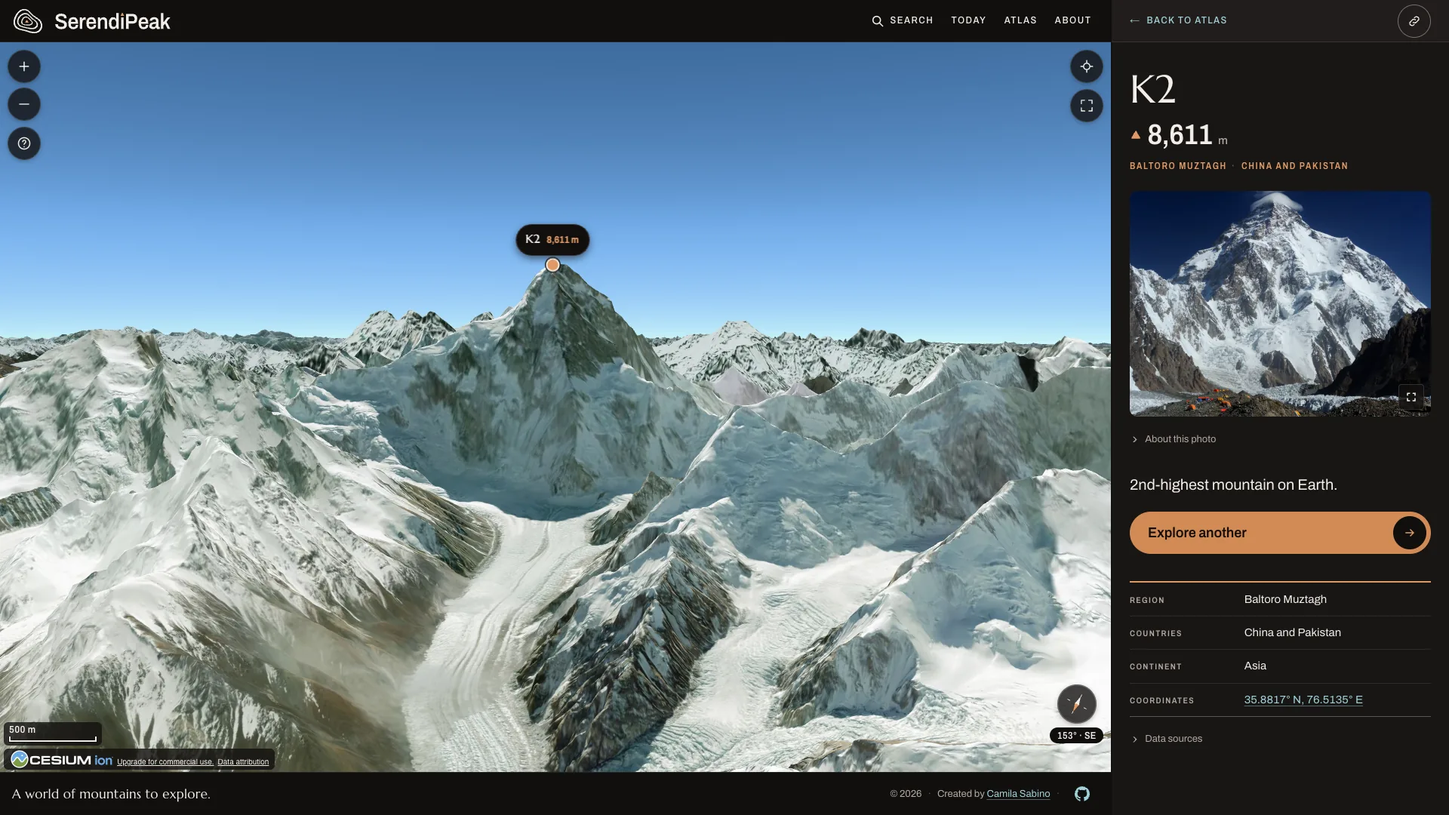
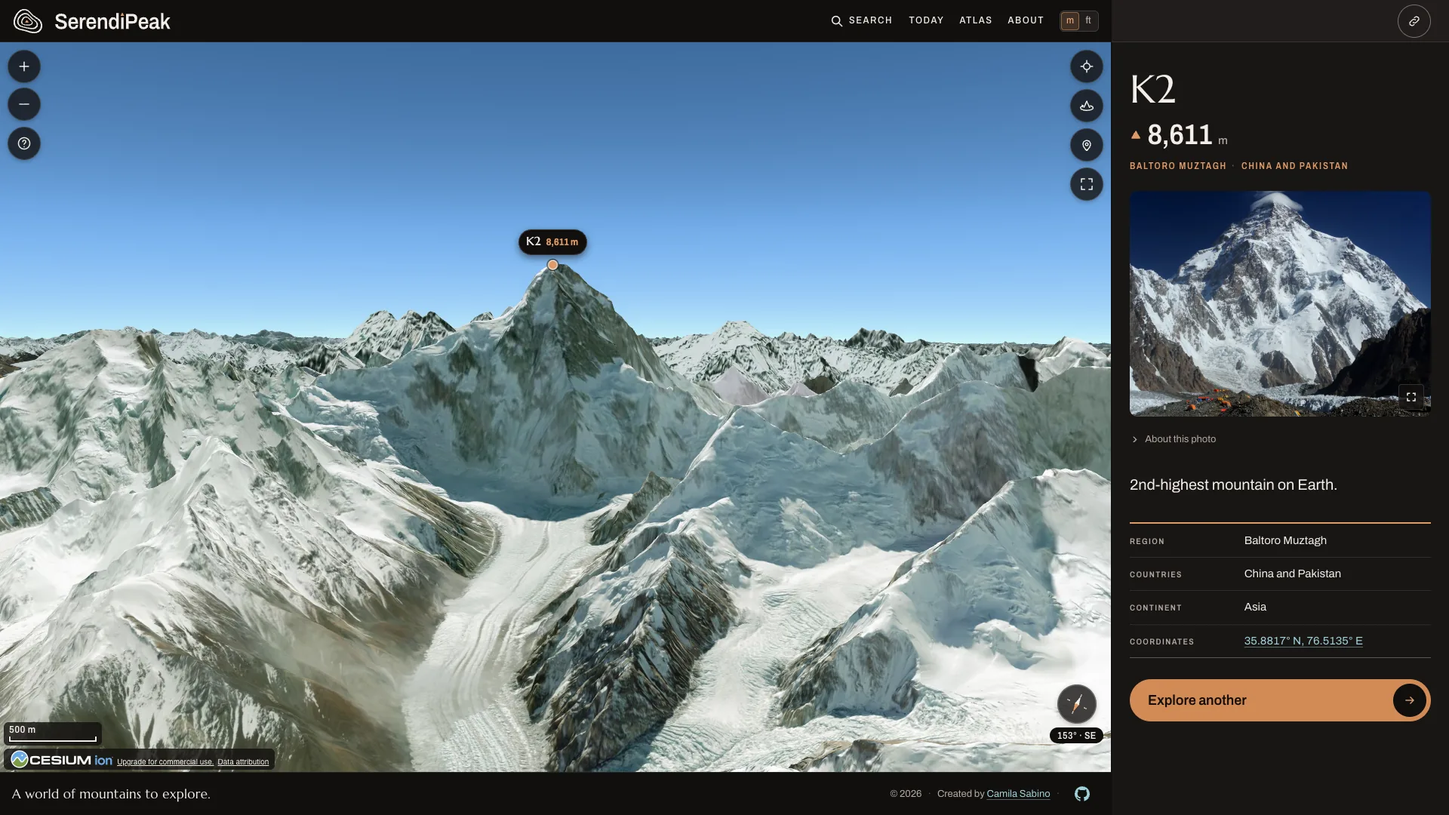
docs: refresh repository documentation and screenshots

diff --git a/docs/engineering/developer-reference.md b/docs/engineering/developer-reference.md
@@ -455,7 +455,7 @@ One GitHub Actions workflow covers the repository.
 
 ### WebGL smoke tests
 
-No workflow runs real WebGL, and it is neither a required check nor a deployment gate. A small Playwright suite in `apps/web/e2e/webgl/` covers what only a real Cesium Viewer can show: boot on the canonical camera with the stage controls, Viewer reuse across routes and teardown without a mountain, atlas marker click versus drag, zoom and Reset, the Camera Editor round trip, and the summit marker layout on phone and desktop. Everything else about the 3D scene is covered by Vitest, SSR and no-WebGL tests.
+No workflow runs real WebGL, and it is neither a required check nor a deployment gate. A Playwright suite in `apps/web/e2e/webgl/` covers what only a real Cesium Viewer can show: boot on the canonical camera with the stage controls, Viewer reuse across routes and teardown without a mountain, atlas marker click versus drag, atlas filters and geographic framing, marker visibility on the atlas and on a mountain, zoom and Reset, control tooltips and the navigation guide tabs (including touch, edges and reduced motion), metric and imperial units on the stage, the Camera Editor round trip, and the summit marker layout on phone and desktop. Everything else about the 3D scene is covered by Vitest, SSR and no-WebGL tests.
 
 Run it locally on demand, in particular after changing Cesium lifecycle, bundling, camera interaction, terrain, imagery or summit markers, and check substantial changes by hand on a real device. `npm run test:webgl` uses `next dev` and runs only the `@lifecycle` scenarios, which exist for React Strict Mode; `npm run test:webgl:prod` runs the whole suite against a production build. Failed tests leave a trace in `apps/web/test-results`.
 
@@ -510,11 +510,21 @@ Repository-root commands for the local stack: `npm run dev:start` starts PostGIS
 Cesium is imported only under `src/stage/globe/cesium/`, behind the framework-free `GlobeScene` interface; everything else in the app talks to that interface.
 
 - **One viewer.** The viewer is created lazily and reused across mountain pages, the daily page and the atlas, so client navigation never recreates a WebGL context. Cesium stops its render loop at the first render error; the scene reports that as a stage failure with a retry instead of leaving a frozen globe.
-- **Curated camera.** Every published mountain has a saved camera: heading, pitch, range and a two-value framing offset (`fx`, `fy`) that keeps the summit in view beside the information panel. The scene turns it into a Cesium pose with a pure function of the summit, the camera and the stage size, so a camera composed in the editor renders the same on the public page.
-- **Navigation.** Compass, scale bar, a control that pauses or resumes the globe's rotation, zoom, reset and fullscreen controls, plus a navigation help panel. Moving to another mountain follows a planned trajectory. The atlas overview always opens on the same fixed view (centered on Europe and Africa) and turns slowly.
-- **Units.** The summit pill, the atlas preview pill and the scale bar follow the visitor's metric or imperial preference. The preference store stays the single source of truth; the mounted stage hands its value to the scene through `GlobeScene.setUnitSystem`, which redraws only those labels in place, so a change never recreates the viewer, flies the camera or rebuilds the markers. Meters remain the canonical unit: the scale bar measures ground distance in meters and picks its round length in the system's own units (1, 2 or 5 times a power of ten of feet below a mile and of miles from it, never a converted metric step), then derives the bar width from that length.
-- **Reduced motion.** With `prefers-reduced-motion: reduce` the scene moves directly to the destination instead of flying when it travels to a mountain or reframes its camera. The preference is read from the browser through `matchMedia`.
+- **State ownership.** `SceneSession` owns what the scene is doing (the presented mountain, the atlas view and markers, whether a flight owns the camera, rotation and orbit intent) and publishes it to a `SceneStore`; the stage components only read snapshots from the store and send commands to the session. What the reader chose lives above the stage, in `StageLayout`, so it survives navigation between the atlas and mountain pages while the page content changes: the atlas view (filters and sort, in memory only, never in the URL), the open continents and whether markers are shown. The unit preference is the one exception, kept in its own store and in `localStorage`.
+- **Curated camera.** Every published mountain has a saved camera: heading, pitch, range and a two-value framing offset (`fx`, `fy`) that keeps the summit in view beside the information panel. The scene turns it into a Cesium pose with a pure function of the summit, the camera and the stage size, so a camera composed in the editor renders the same on the public page, and it adapts when the stage is resized or goes fullscreen.
+- **Camera transitions.** Moving between mountains, to the atlas overview or back to a mountain's pose is a planned glide (`transitionPlan`, `glidePath`). The plan classifies the trip (local, regional, continental or intercontinental) and whether it is a reveal or an exploration, climbs to a context altitude when the distance asks for it, and sets its duration from the perceived length of the motion (zoom, ground covered, turn and tilt) rather than from distance alone, slowing into the arrival. Under reduced motion the plan is a direct move.
+- **Availability and interruption.** Zoom and Reset work only while the camera is settled on a mountain or free in the atlas; during a reveal or a flight between mountains they are disabled (`stageControlsFor`), and the controls appear only once the scene is ready. A flight to the atlas overview is cancelled by the reader's first press or wheel on the globe, which takes the camera; Reset and the flight between mountains hold direct input until they land. A gesture, zoom step or Reset also ends an orbit or rotation in progress, and the camera is never snapped back to a pose the reader left.
+- **Controls.** Compass, scale bar, zoom, Reset, fullscreen and **How to navigate** everywhere. The atlas adds a pause or resume control for the globe's rotation; the daily page and mountain pages add the **360° orbit**. A markers switch is offered on all three. Unavailable buttons say so in their tooltip ("Available once the view settles").
+- **Mountain orbit.** One revolution around the settled mountain in 60 seconds, started, paused and resumed from the toolbar. It turns around the summit from wherever the camera is, keeps a terrain clearance by climbing ahead of ridges (look-ahead along its path, eased lift, an emergency correction scaled by the frame's elapsed time) and halts safely, returning the label to Start, when it cannot. It stops when the reader moves the map, zooms, resets, changes mountain or starts a flight, and the button is disabled while any flight owns the camera. It is not offered on the atlas or in the Camera Editor, nor under reduced motion. Known limit: under very heavy CPU throttling (about 6x on K2) the orbit may halt at a ridge.
+- **Marker visibility.** One reader preference, held by `StageLayout`, hides or shows every marker the globe draws: the atlas markers (also not heard or hit, so the chooser cannot open) and the summit marker of a mountain. The list, the information panel, search and navigation are unaffected, and the guide changes its wording and drops the "Open" gesture while atlas markers are hidden. It resets on a full reload.
+- **Tooltips and guide.** Each control has a tooltip that names what pressing it does now. It is a visual aid only (hidden from assistive technology; the button keeps its own accessible name): it opens immediately on mouse or pen entry or on keyboard focus, never on touch, closes with Escape, is kept inside the stage and is suppressed while the guide is open. **How to navigate** is a disclosure with three tabs (Mouse, Touch, Controls) whose rows describe only the gestures and buttons the stage actually offers in its current context (atlas or mountain, markers shown or hidden, orbit or rotation available, fullscreen supported); the copy is in `stage/stageCopy.ts`.
+- **Units.** The summit pill, the atlas preview pill and the scale bar follow the visitor's metric or imperial preference, chosen with the header's segmented control and remembered in `localStorage` (`serendipeak:unit-system`). The preference store stays the single source of truth; the mounted stage hands its value to the scene through `GlobeScene.setUnitSystem`, which redraws only those labels in place, so a change never recreates the viewer, flies the camera or rebuilds the markers. Meters remain the canonical unit: the scale bar measures ground distance in meters and picks its round length in the system's own units (1, 2 or 5 times a power of ten of feet below a mile and of miles from it, never a converted metric step), then derives the bar width from that length.
+- **Reduced motion.** With `prefers-reduced-motion: reduce` the scene moves directly to the destination instead of flying, the atlas globe does not rotate and the mountain orbit is not offered (so their controls are absent). The preference is read from the browser through `matchMedia`.
 - **Failure states.** A missing ion token, a scene that cannot start or a failed imagery layer is reported in the stage's status region; the editorial content around the stage keeps working. `npm run test:nogl` covers these states without WebGL.
+
+#### Site header
+
+The header shows Search, the Today, Atlas and About links and the unit selector. When the row does not fit, the links and the unit selector move behind a **Menu** disclosure button (`HeaderMenu`: ordinary links and buttons, closed by Escape, an outside press or focus leaving it, and by widening the header). The wordmark is hidden on very narrow headers.
 
 ### Mountain search
 
@@ -524,7 +534,11 @@ Filtering runs in the browser on every keystroke, with no request: names are com
 
 ### Atlas
 
-`/atlas` shows every active mountain as a marker on the globe, with a list below grouped by continent. Markers are labelled by distance and decluttered; where several markers overlap under a click or tap, a chooser lists them. Every continent starts collapsed, and the ones the visitor opens persist across mountain pages and back (a set held by the stage layout). A marker under the mouse, or the marker of a list row under the mouse or keyboard focus, is drawn emphasized and named by the same pill the mountain page uses; the list reaches the scene only through the stage layout's `highlightMarker`, which is transient (nothing is replayed to a scene that does not exist yet), never moves the camera, and shows nothing for a marker on the far side of the globe. A touch has no hover, so a tap still opens the mountain or the chooser at once. The mountain page's **Back to atlas** link steps back in history when the visitor arrived from the atlas, so Back does not replay the trip. It is server-rendered from the index (`getServerSideProps` → `loadAtlasPage`), indexable, and canonicalizes to `${SITE_ORIGIN}/atlas`. An index the API cannot serve answers 503 (unreachable) or 502 with a retry, like a mountain page.
+`/atlas` shows every active mountain as a marker on the globe, with a panel beside it (below it on narrow screens) holding the introduction, the **Filter** and **Sort** controls and the list.
+
+- **Filter and sort.** Filters are country (an ISO code, matched against every country of a mountain), elevation (any number of 1,000-unit bands, in the displayed unit system) and mountain range (a region slug, matched against a mountain's region and each of its ancestors). Several bands combine with OR and every other active filter with AND; each option shows how many mountains it would leave. Sort is name A–Z (the default), highest first or lowest first. With the default view the list is grouped by continent; with any filter or another sort it is one sorted list of the matches. The panel states how many mountains match, switching units clears the elevation bands (and says so) because they are native to one unit system, and **Reset** returns to the default view. The view lives in `AtlasViewStore`, held by the stage layout in memory only, so opening a mountain and returning finds the list and globe as they were; it is never in the URL.
+- **Globe follows the list.** Every filter narrows the markers on the globe to the matches. Country and range are geographic: they also bring the camera to the matches (`toAtlasView`, `atlasOverviewLook`), turning and zooming to frame them, or keeping the whole globe turned toward them when they are too dispersed to frame closely. Elevation and sort never move the camera.
+- **Markers.** The markers switch hides every atlas marker without touching the list (see [3D scene](#3d-scene)). Markers are labelled by distance and decluttered; where several markers overlap under a click or tap, a chooser lists them. Every continent starts collapsed, and the ones the visitor opens persist across mountain pages and back (a set held by the stage layout). A marker under the mouse, or the marker of a list row under the mouse or keyboard focus, is drawn emphasized and named by the same pill the mountain page uses; the list reaches the scene only through the stage layout's `highlightMarker`, which is transient (nothing is replayed to a scene that does not exist yet), never moves the camera, and shows nothing for a marker on the far side of the globe. A touch has no hover, so a tap still opens the mountain or the chooser at once. The mountain page's **Back to atlas** link steps back in history when the visitor arrived from the atlas, so Back does not replay the trip. It is server-rendered from the index (`getServerSideProps` → `loadAtlasPage`), indexable, and canonicalizes to `${SITE_ORIGIN}/atlas`. An index the API cannot serve answers 503 (unreachable) or 502 with a retry, like a mountain page.
 
 #### Sharing and social metadata
 
@@ -532,5 +546,5 @@ A loaded public mountain page publishes, in its server-rendered `<head>`, a desc
 
 - **Canonical:** `${SITE_ORIGIN}/mountains/{slug}` with the API's current slug, so an old slug (which answers 308) and any query string never reach it. The daily page `/` canonicalizes to `${SITE_ORIGIN}/` and carries site-level tags only, because social platforms cache a preview much longer than a mountain stays featured. Draft previews and failed loads publish no canonical, description or social tags; previews keep `noindex` and `no-store`.
 - **Text:** the title is `Name (elevation)`; the description is the curated summary (whitespace collapsed, cut at a word boundary under 200 characters) or, without one, `Name rises 6,961 m in <region, countries or continent>.` built only from catalog fields.
-- **Image:** a mountain's page rendition is used only when its license asks for no attribution (CC0 or public domain, recognized from the license name or the Creative Commons URL), because a link preview shows no credit. Every other photograph, and every mountain without a recognized license, falls back to one static illustrated card, `/brand/serendipeak-mountain-social-v1.png` (1200x630, original artwork with no imagery, so it carries no third-party credit), with `og:image:width` and `height` set and a `summary_large_image` Twitter card. The homepage keeps the square brand mark `/brand/serendipeak-mark.png` with a `summary` card. The card's filename is versioned: a changed card gets a new `-vN` name, because social platforms cache a preview image by URL. `docs/brand/social-preview.png` is not served: it embeds Sentinel-2 imagery under CC BY-NC-SA and Cesium terrain whose terms require the attribution to stay with it.
+- **Image:** a mountain's page rendition is used only when its license asks for no attribution (CC0 or public domain, recognized from the license name or the Creative Commons URL), because a link preview shows no credit. Every other photograph, and every mountain without a recognized license, falls back to one static illustrated card, `/brand/serendipeak-mountain-social-v1.png` (1200x630, original artwork with no imagery, so it carries no third-party credit), with `og:image:width` and `height` set and a `summary_large_image` Twitter card. The homepage keeps the square brand mark `/brand/serendipeak-mark.png` with a `summary` card. The card's filename is versioned: a changed card gets a new `-vN` name, because social platforms cache a preview image by URL. `docs/brand/social-preview.png` is not served: it is the repository's own social preview (uploaded to GitHub by hand) and embeds a Cesium capture of Cesium World Imagery and Cesium World Terrain whose terms require the attribution to stay with it.
 - **Share control:** the mountain panel offers one button on public mountain pages and the daily page, never on previews. It shares the mountain's permanent URL, never `/` or a preview address: with `navigator.share` where available, otherwise by copying it. Dismissing the native sheet is silent; a native failure falls back to the clipboard; a denied clipboard shows the URL to copy by hand. Without a configured origin it uses the visitor's own origin with the permanent path.

diff --git a/docs/media/README.md b/docs/media/README.md
@@ -7,7 +7,7 @@ docs/media/
 ├── atlas.webp                 # Atlas, desktop 1920x1080
 ├── mountain-view.webp         # K2 mountain page, desktop 1920x1080
 ├── mountain-view-mobile.webp  # Fitz Roy mountain page, mobile 390x844
-└── camera-editor.webp         # Camera Editor on the saved camera of Kilimanjaro, desktop 1440x900 (technical reference, not used in the README; an earlier capture with Sentinel-2 imagery, see Credits)
+└── camera-editor.webp         # Camera Editor on the saved camera of Kilimanjaro, desktop 1440x900 (technical reference, not used in the README)
 ```
 
 The README images show different mountains on purpose. See [Credits and rights](#credits-and-rights).
@@ -23,11 +23,24 @@ The README images show different mountains on purpose. See [Credits and rights](
 - Wait for the real scene before capturing: no status message left in the stage, no `role="alert"`, the photograph decoded, the fonts loaded, and a few seconds for terrain and imagery tiles to settle. A loading or failure state is never acceptable.
 - Use public pages only. The Camera Editor reads everything from its query and writes nothing; use only data the public API already serves for a published mountain, and never click **Save camera…**.
 - Never crop, cover or retouch the Cesium ion logo or the **Data attribution** link in the scene; they must stay visible in every capture and in anything derived from it.
-- Keep each file under about 300 KB. Terrain imagery compresses poorly, so the set is roughly 0.35 MB at these sizes.
+- Keep each file under about 300 KB. Terrain imagery compresses poorly, so the set is roughly 0.5 MB at these sizes (about 0.37 MB for the three README images).
+- The Atlas globe turns slowly (about 1.2° per second), so its framing depends on when the frame is taken. Capture it about 12 seconds after the stage is ready, which frames Europe and Africa as the earlier captures did; never pause or drag the globe to compose it.
+- A mountain page opened directly has no **Back to atlas** link, which only appears for a visitor who arrived from the Atlas. Do not navigate through the Atlas just to show it.
+- For the phone capture use a touch-enabled mobile emulation at 390x844 with a device scale factor of 1.
 
 ## Regenerating a screenshot
 
-1. Open the page at the target viewport, for example `http://localhost:3100/mountains/k2` against a local API with a published catalog. The Atlas is `/atlas`.
+1. Build and serve the production build on a spare port, away from a running development server, against a local API with a published catalog (the page is rendered on the server, so the API's CORS origin does not matter for these routes):
+
+   ```bash
+   cd apps/web
+   NEXT_DIST_DIR=.next-e2e/readme-media NEXT_PUBLIC_API_BASE_URL=http://localhost:8000 \
+     NEXT_PUBLIC_CESIUM_IMAGERY_MODE=world npm run build
+   NEXT_DIST_DIR=.next-e2e/readme-media NEXT_PUBLIC_API_BASE_URL=http://localhost:8000 \
+     npx next start -p 3100
+   ```
+
+   `.next-e2e/` is ignored by Git. `NEXT_PUBLIC_CESIUM_ION_TOKEN` comes from `apps/web/.env.local`. Then open the page at the target viewport, for example `http://localhost:3100/mountains/k2`. The Atlas is `/atlas`.
 2. Only for a Camera Editor reference (never for the public pages), use `/editorial/camera?mountain=<id>&slug=<slug>&name=<name>&lat=<lat>&lon=<lon>&elevation=<m>&heading=<deg>&pitch=<deg>&range=<m>&fx=<x>&fy=<y>`, with the values from the mountain's public API response.
 3. Take a PNG screenshot of the viewport (Playwright's `page.screenshot` works well). The Atlas globe turns slowly, so each capture frames it slightly differently.
 4. Convert it with `cwebp` (`brew install webp`):
@@ -47,6 +60,11 @@ To recreate the social preview, lay out a 1280x640 HTML page with those elements
 
 GitHub does not read the card from the repository: upload it under Settings → General → Social preview.
 
+### Two different social images
+
+- **`docs/brand/social-preview.png`** is the *GitHub repository* social preview. It is not referenced by any page and is never served by the web app; it only exists to be uploaded by hand. Its right half is a real Half Dome capture in World Imagery, with the imagery and terrain credits printed as text.
+- **`apps/web/public/brand/serendipeak-mountain-social-v1.png`** is the *mountain page* Open Graph card, below.
+
 The Open Graph card for mountain pages is a separate, static asset: `apps/web/public/brand/serendipeak-mountain-social-v1.png` (1200x630), original artwork of contour lines on `--sp-basalt` with no photograph, satellite imagery or Cesium capture, so it needs no credits. It is served as-is and never regenerated; to change it, add a new `-vN` file and point `MOUNTAIN_CARD_PATH` at it.
 
 ## Credits and rights
@@ -57,10 +75,12 @@ The repository license ("All rights reserved") does not cover the third-party ma
   - `mountain-view.webp` (K2): "Chogori.jpg" by Zacharie Grossen, licensed [CC BY-SA 4.0](https://creativecommons.org/licenses/by-sa/4.0), from [Wikimedia Commons](https://commons.wikimedia.org/wiki/File:Chogori.jpg).
   - `mountain-view-mobile.webp` (Fitz Roy): "Vue du Fitz Roy.jpg" by Sebgigon, licensed [CC BY-SA 4.0](https://creativecommons.org/licenses/by-sa/4.0), from [Wikimedia Commons](https://commons.wikimedia.org/wiki/File:Vue_du_Fitz_Roy.jpg).
   - `atlas.webp`, `camera-editor.webp` and the social preview show no photograph.
-- **3D terrain** (all images): Cesium World Terrain, streamed through Cesium ion. Cesium's terms allow images of its services in promotional material provided its attribution stays intact, and its [content usage and attribution guide](https://cesium.com/learn/ion/content-usage-and-attribution-guide/) requires the Cesium ion logo to be prominent and the data attribution details to be visible in static images (the "Data attribution" link alone is not enough). The social preview therefore shows the logo and the credits as text. The terrain credits, as the scene's own **Data attribution** panel lists them: data available from the U.S. Geological Survey, © CGIAR-CSI, produced using Copernicus data and information funded by the European Union - EU-DEM layers, data available from Land Information New Zealand, data available from data.gov.uk, data courtesy Geoscience Australia.
-- **Satellite imagery** (`atlas.webp`, `mountain-view.webp`, `mountain-view-mobile.webp` and the social preview): Cesium World Imagery from Cesium ion, the imagery the deployed site uses (`world` mode). Credits as the scene's **Data attribution** panel lists them, and as the social preview reproduces them: © 2026 Microsoft Corporation, © Mapbox, © Maxar, ©CNES (2026) Distribution Airbus DS, Earthstar Geographics SIO. These images show the product as a portfolio project; Cesium World Imagery stays subject to its providers' terms, which the repository license does not cover. The attribution strip in each capture is the scene's own.
-- **Camera Editor reference** (`camera-editor.webp`): an earlier capture whose imagery is Sentinel-2 from Cesium ion (asset 3954, the EOxCloudless 2021 layer), so it does not look like the deployed site. Its credit: "EOxCloudless https://cloudless.eox.at by EOX IT Services GmbH (Contains modified Copernicus Sentinel data 2021)", licensed by EOX under [CC BY-NC-SA 4.0](https://cloudless.eox.at/license-non-commercial) (non-commercial, share-alike). It is not used in the README.
+- **3D terrain** (all images): Cesium World Terrain, streamed through Cesium ion. Cesium's terms allow images of its services in promotional material provided its attribution stays intact, and its [content usage and attribution guide](https://cesium.com/learn/ion/content-usage-and-attribution-guide/) requires the Cesium ion logo to be prominent and the data attribution details to be visible in static images (the "Data attribution" link alone is not enough). The social preview therefore shows the logo and the credits as text, and the root README prints the terrain, imagery and photograph credits as visible text directly under its screenshots, which is the guide's "caption" approach. The README images are deliberately not links to the standalone files, so none is offered without that caption; the files are still reachable by their repository path, and they keep the scene's own logo and **Data attribution** link unaltered. Anyone reusing an image elsewhere must carry the credits with it.
+
+Review of the terms (guide, [Appendix B](https://cesium.com/legal/third-party-terms/) and [Appendix B-1, Bing Maps Content](https://cesium.com/legal/terms-for-bing/), read 2026-11-24): the guide requires visible attribution details in static content made with Cesium ion Asset Depot assets, says screenshots nowhere by name, and warns that some providers limit renderings that include their data. Appendix B forbids removing, obscuring or blocking attribution. The Bing terms allow content only "to access and display maps and related information", forbid copying or archiving the content and obscuring Microsoft's notices, and say nothing about screenshots, static images or published material. Not read: the Bing Maps end-user terms and Microsoft's brand guidelines that Appendix B-1 links. The guide also says Cesium ion's Bing access runs "at least through September 2026", a date that has passed; nothing here checks what the service serves now. **Unresolved:** no document reviewed expressly permits republishing screenshots of World Imagery, so the right to reproduce the imagery in these images is not confirmed. The credits and the unmodified attribution are kept as the conservative course, and the images are kept because they show the product as a portfolio project, not because clearance was established. The terrain credits, as the scene's own **Data attribution** panel lists them: data available from the U.S. Geological Survey, © CGIAR-CSI, produced using Copernicus data and information funded by the European Union - EU-DEM layers, data available from Land Information New Zealand, data available from data.gov.uk, data courtesy Geoscience Australia.
+- **Satellite imagery** (every image here, the Camera Editor reference and the social preview included): Cesium World Imagery from Cesium ion, the imagery the deployed site uses (`world` mode). Credits as the scene's **Data attribution** panel lists them, and as the social preview reproduces them: © 2026 Microsoft Corporation, © Mapbox, © Maxar, ©CNES (2026) Distribution Airbus DS, Earthstar Geographics SIO. These images show the product as a portfolio project; Cesium World Imagery stays subject to its providers' terms, which the repository license does not cover. The attribution strip in each capture is the scene's own.
+- **Camera Editor reference** (`camera-editor.webp`): the same Cesium World Terrain and World Imagery as the other captures, so it carries the same credits. It shows no photograph and no scene beyond the Kilimanjaro scene and the editor's own panel. (An earlier version used Sentinel-2 imagery from Cesium ion, EOxCloudless under CC BY-NC-SA; no current image does.)
 - **Starfield**: the Atlas capture shows CesiumJS's built-in sky box, whose star images come from NASA (see the [CesiumJS license notices](https://github.com/CesiumGS/cesium/blob/main/LICENSE.md), "Sky box images from NASA", and [NASA's media guidelines](https://www.nasa.gov/nasa-brand-center/images-and-media/)).
 - **Brand artwork and typefaces**: the SerendiPeak symbol and wordmark, and Marcellus and Archivo, which are open-licensed (SIL Open Font License) fonts self-hosted by the product.
 
-The README images and the social preview were captured from a local production build with `NEXT_PUBLIC_CESIUM_IMAGERY_MODE=world`, and match the deployed site for the same viewport. Each shows the Cesium ion logo and the scene's "Data attribution" link, and the credits above apply to it.
+The four screenshots were recaptured on 2026-11-24 from a local production build of the current code with `NEXT_PUBLIC_CESIUM_IMAGERY_MODE=world`, against a local catalog whose slugs and saved cameras matched the production API's, and the social preview was captured earlier the same way. They match the deployed site for the same viewport. Each shows the Cesium ion logo and the scene's "Data attribution" link, and the credits above apply to it.

diff --git a/README.md b/README.md
@@ -6,7 +6,7 @@ SerendiPeak is a mountain discovery and exploration experience. Explore the worl
 
 [**Explore SerendiPeak →**](https://serendipeak.camilasabino.dev) &nbsp;·&nbsp; [![CI](https://github.com/camilasabino/serendipeak/actions/workflows/ci.yml/badge.svg)](https://github.com/camilasabino/serendipeak/actions/workflows/ci.yml)
 
-[![The SerendiPeak Atlas: a 3D globe with a red marker for every published mountain, beside a list grouped by continent](docs/media/atlas.webp)](docs/media/atlas.webp)
+![The SerendiPeak Atlas: a 3D globe with a marker for every published mountain, beside filter and sort controls and a list grouped by continent](docs/media/atlas.webp)
 
 ## What it does
 
@@ -14,22 +14,23 @@ Every day the site features one mountain from a curated catalog, inviting visito
 
 - **Discover today's mountain.** A daily selection, chosen per UTC date, shared by every visitor and kept across restarts.
 - **Explore another.** Travel to a different mountain without leaving the 3D experience.
-- **Browse the atlas.** Every published mountain as a marker on an interactive globe at [/atlas](https://serendipeak.camilasabino.dev/atlas), with a list grouped by continent. Nearby markers are decluttered, and a chooser opens where several overlap.
+- **Browse the atlas.** Every published mountain as a marker on an interactive globe at [/atlas](https://serendipeak.camilasabino.dev/atlas), with a list grouped by continent. Filter by country, elevation band or mountain range and sort by name or elevation: the list narrows to one sorted set of matches and the globe keeps only their markers; a country or range also turns the globe to frame them. Nearby markers are decluttered, and a chooser opens where several overlap.
 - **Search by name.** Find a mountain from any page, ignoring case and accents. Search is keyboard operable and announces its results.
-- **Explore the terrain.** Navigate a Cesium-powered 3D scene framed by a curated, mountain-specific camera, with compass, scale bar, zoom, reset, fullscreen and a navigation help panel. Visitors who prefer reduced motion get direct moves instead of animated flights.
-- **Understand the geography.** See elevation, coordinates, continent, countries, and the mountain's region hierarchy, with links to supporting geographic data.
+- **Explore the terrain.** Navigate a Cesium-powered 3D scene framed by a curated, mountain-specific camera, with compass, scale bar, zoom, reset and fullscreen controls. A 360° orbit circles the summit, and one switch hides or shows the mountain markers on the atlas, today's mountain and every mountain page. Every control explains itself in a tooltip, and a tabbed **How to navigate** guide covers mouse, touch and the controls. Visitors who prefer reduced motion get direct moves instead of animated flights, and no orbit or globe rotation.
+- **Choose your units.** Switch between metric and imperial from the header; elevations, markers, the scale bar and the atlas elevation bands follow, and the choice is remembered in the browser.
+- **Understand the geography.** See elevation, coordinates, continent, countries, and the mountain's region hierarchy, with a short summary and, where one is written, a longer description that expands in place.
 - **See the mountain beyond the map.** View a real photograph with its author, license, and source.
 - **Share a place.** Each mountain has a permanent URL such as [Aconcagua](https://serendipeak.camilasabino.dev/mountains/aconcagua). If a mountain's slug changes, its former address redirects permanently to the new one. Pages carry canonical URLs and social preview metadata, and a share control uses the native share sheet or copies the link.
 
-[![SerendiPeak page for K2: a 3D terrain scene of the mountain beside its elevation, region, photograph and details](docs/media/mountain-view.webp)](docs/media/mountain-view.webp)
+![SerendiPeak page for K2: a 3D terrain scene of the mountain beside its elevation, region, photograph and details](docs/media/mountain-view.webp)
 
 The public experience is open without an account and adapts to small screens:
 
 <p align="center">
-  <a href="docs/media/mountain-view-mobile.webp">
-    <img src="docs/media/mountain-view-mobile.webp" alt="SerendiPeak on a 390 px wide viewport: the mountain name and elevation above the 3D scene of Fitz Roy, with the details below" width="260" />
-  </a>
+  <img src="docs/media/mountain-view-mobile.webp" alt="SerendiPeak on a 390 px wide viewport: the mountain name and elevation above the 3D scene of Fitz Roy and its controls, with the summary below" width="260" />
 </p>
+
+<sub>Screenshot credits. Terrain: Cesium World Terrain (data available from the U.S. Geological Survey, © CGIAR-CSI, produced using Copernicus data and information funded by the European Union - EU-DEM layers, data available from Land Information New Zealand, data available from data.gov.uk, data courtesy Geoscience Australia). Imagery: Cesium World Imagery (© 2026 Microsoft Corporation, © Mapbox, © Maxar, ©CNES (2026) Distribution Airbus DS, Earthstar Geographics SIO), both streamed through Cesium ion. Photographs: K2 by Zacharie Grossen and Fitz Roy by Sebgigon, both [CC BY-SA 4.0](https://creativecommons.org/licenses/by-sa/4.0). Credits and terms in [docs/media/README.md](docs/media/README.md#credits-and-rights).</sub>
 
 ## Editorial workflow
 
@@ -57,7 +58,7 @@ flowchart LR
     Studio --> PG
     Backup["Scheduled backup job"] --> PG
     Backup --> R2Backup["Cloudflare R2<br/>private backups"]
-    Offsite["Scheduled offsite job"] --> R2
+    Offsite["Offsite job<br/>(not deployed)"] --> R2
     Offsite --> R2Backup
     Offsite --> B2["Backblaze B2<br/>independent copy"]
 ```
@@ -68,7 +69,7 @@ flowchart LR
 - **3D scene lifecycle.** Navigating between mountain pages reuses one Cesium viewer instead of recreating its WebGL context for every destination.
 - **Publishing.** Drafts are invisible to the public API. Draft previews use signed, time-limited, single-mountain tokens.
 - **Search engines.** The web app serves a dynamic `sitemap.xml` and `robots.txt` built from the public mountain index, so only published mountains are listed.
-- **Operations.** Web and API run as separate Docker images on Railway. A scheduled service dumps the database to private storage, and a second one keeps an independent copy of the media and dumps at another provider.
+- **Operations.** Web and API run as separate Docker images on Railway. A scheduled service dumps the database to private storage. A second job, defined in the repository with its own image and runbook, copies the media and dumps to another provider; no such service is deployed in production yet.
 
 ### Engineering decisions
 
@@ -171,7 +172,7 @@ While working, run the focused specs for the code you touch. When you change a s
 
 The `ssr` and `nogl` Playwright projects assume a production build: `npm run test:ssr` and `npm run test:nogl` build first, and the build inlines `NEXT_PUBLIC_*` values, so a local `.env.local` with an ion token also breaks the `stageFailure` scenarios, which expect none. Pointing them at `next dev` reports failures that production does not have, because styles and route changes settle later there.
 
-**WebGL smoke tests (optional, local).** A small Playwright suite drives the real Cesium Viewer in Chromium. It covers the Viewer boot on the canonical camera, reuse and teardown across routes, atlas marker click versus drag, zoom and Reset, the Camera Editor round trip and the summit marker layout. It never runs in CI and gates neither merging nor deployment.
+**WebGL smoke tests (optional, local).** A Playwright suite drives the real Cesium Viewer in Chromium. It covers the Viewer boot on the canonical camera, reuse and teardown across routes, atlas marker click versus drag, atlas filters and geographic framing, marker visibility, zoom and Reset, control tooltips and the navigation guide, metric and imperial units, the Camera Editor round trip and the summit marker layout. It never runs in CI and gates neither merging nor deployment.
 
 ```bash
 npm run test:webgl        # development server: only the @lifecycle scenarios, under React Strict Mode
@@ -199,7 +200,7 @@ API tests run against a real PostGIS database rather than mocks. **CI** (GitHub 
 
 ## Deployment
 
-The web app and the API run as separate Docker-based services on Railway, with PostgreSQL/PostGIS and the scheduled database and offsite backup jobs as further services. Cloudflare R2 serves the optimized public photographs and keeps originals in a private bucket; Backblaze B2 holds the independent offsite copy.
+The web app and the API run as separate Docker-based services on Railway, with PostgreSQL/PostGIS and a scheduled database backup job as further services. Cloudflare R2 serves the optimized public photographs, keeps originals in a private bucket and holds the database dumps. The offsite copy at Backblaze B2 has its own job and runbook; that job is not deployed in production yet.
 
 See [docs/deployment.md](docs/deployment.md) for configuration, health checks, monitoring, backups, smoke tests (including sitemap and redirect checks) and recovery procedures.
 

diff --git a/docs/deployment.md b/docs/deployment.md
@@ -31,7 +31,7 @@ This runbook documents procedures and shapes. Keep these in the owner's private 
 | `backup`                       | cron service built from `services/backup`; daily `pg_dump` to a private R2 bucket                                    | never                                       |
 | R2 bucket `<public-bucket>`    | public photograph renditions                                                                                         | `https://media.serendipeak.camilasabino.dev` (custom domain) |
 | R2 bucket `<originals-bucket>` | private original photographs                                                                                         | never                                       |
-| `offsite-backup`               | cron service built from `services/offsite-backup`; copies the originals, renditions and dumps to Backblaze B2 | never                                       |
+| `offsite-backup` (not yet created) | cron service built from `services/offsite-backup`; copies the originals, renditions and dumps to Backblaze B2 | never                                       |
 | B2 bucket `<offsite-bucket>`   | private independent copy (`originals/`, `media/`, `db-backups/`, `manifests/`)                                       | never                                       |
 
 `WEB_ORIGIN` and `CORS_ALLOWED_ORIGIN` are single origins and must name the web origin in use. The web build inlines the API origin, so changing the API host needs a new web build. A custom domain on an R2 bucket needs the zone, or a Cloudflare-supported partial setup for that hostname, on Cloudflare.
@@ -187,6 +187,8 @@ The `backup` service is a Railway cron service built from `services/backup` (Doc
 ### Offsite media and database copy
 
 R2 holds the photographs and the dumps, and so does the account that could lose them. The `offsite-backup` service copies all of it to one private Backblaze B2 bucket, under another provider and other credentials, so that a lost or compromised Cloudflare account, a mistaken deletion or a corrupted object does not take the only copy with it.
+
+**Status.** Three things are separate. (1) *Implemented:* the job, its image and its tests are in this repository. (2) *Not deployed:* a read-only `railway status` of `serendipeak/production` on 2026-11-24 listed only `web`, `api`, `postgres` and `backup`, so no `offsite-backup` service runs and nothing alerts on it. (3) *Not verified from the repository:* whether the Backblaze bucket and key, the read-only R2 token and the Better Stack heartbeat exist. Their absence is not implied by the missing service; confirm them in their own consoles and skip the setup steps below that are already done. The service counts as live only when `railway status` lists it and a run has logged `offsite ok:`.
 
 It is a cron service with its own root directory, `services/offsite-backup`, and its own `Dockerfile` (Dockerfile builder, like the other services). It needs only `curl` and `rclone`, no PostgreSQL client and no database credentials. It shares no file with the `backup` service, so a change to either one redeploys only that service: keep the watch path of each at its own directory (`/services/backup/**` and `/services/offsite-backup/**`). It reads R2 with a read-only token and writes B2 with a key that cannot delete.
 
@@ -403,7 +405,7 @@ Monitoring uses the Better Stack free plan and no additional infrastructure: one
 
 **Configure once**
 
-1. In Better Stack create the four monitors above with an email alert policy. Create each heartbeat first and copy its URL.
+1. In Better Stack create the monitors above with an email alert policy (the `serendipeak-offsite` heartbeat only once the offsite service exists). Create each heartbeat first and copy its URL.
 2. In Railway, on the `backup` service only, set `BACKUP_HEARTBEAT_URL` to the URL of `serendipeak-backup`, and on `offsite-backup` only, `OFFSITE_HEARTBEAT_URL` to the URL of `serendipeak-offsite`. Confirm the target with `railway status` before writing.
 3. Check each monitor shows its first result: the uptime monitors immediately, the heartbeats after the next scheduled run.
 
@@ -425,7 +427,7 @@ To pause alerts for planned work, pause the monitor in Better Stack and resume i
 
 ### Daily discovery retention
 
-Production has no scheduled job for this: the environment holds only `web`, `api`, `postgres`, `backup` and `offsite-backup`. Nothing fails without it; the `daily_discovery` table just grows by one row a day. The command `python manage.py prune_daily_discoveries` is idempotent and safe to run at any time, and the database refuses to delete a discovery inside the retention window. Run it from the operator shell when needed (see "Operator shell"). Scheduling it would be a new cron service built from `services/api` with the same variables as `api`, and it would have to join the list in "Trusting forwarded headers". See the [developer reference](engineering/developer-reference.md#daily-discovery-retention).
+Production has no scheduled job for this: the environment holds only `web`, `api`, `postgres` and `backup` (plus `offsite-backup` once it is created). Nothing fails without it; the `daily_discovery` table just grows by one row a day. The command `python manage.py prune_daily_discoveries` is idempotent and safe to run at any time, and the database refuses to delete a discovery inside the retention window. Run it from the operator shell when needed (see "Operator shell"). Scheduling it would be a new cron service built from `services/api` with the same variables as `api`, and it would have to join the list in "Trusting forwarded headers". See the [developer reference](engineering/developer-reference.md#daily-discovery-retention).
 
 ## 3. R2 buckets and media domain
 
@@ -644,7 +646,7 @@ Reversing the first migration drops the `postgis` extension and fails if other o
 Django believes `X-Forwarded-Proto` only when `TRUSTED_PROXY_HOPS` is above `0` (`SECURE_PROXY_SSL_HEADER`), and uses the same value to pick the client address out of `X-Forwarded-For`. Gunicorn is configured not to derive the scheme from any header, `X-Forwarded-Host` is never trusted, and `ALLOWED_HOSTS` is an exact list. On Railway, `TRUSTED_PROXY_HOPS=1` is correct while **all** of these are true:
 
 1. **Every outside request passes through Railway's HTTP edge.** The edge states `X-Forwarded-Proto: https` for what it forwards and redirects plain HTTP (a plain POST is turned into a GET and redirected), so a request that reaches the service from the internet was received over HTTPS. The `api` service has no TCP proxy and no other public route.
-2. **The private network is a trust boundary.** Services in the same environment reach `api` without passing the edge and can send any header. The environment holds only services the owner controls (`postgres`, `web`, `backup`, `offsite-backup`). `web` calls the API through its public HTTPS address, not through the private one.
+2. **The private network is a trust boundary.** Services in the same environment reach `api` without passing the edge and can send any header. The environment holds only services the owner controls (`postgres`, `web` and `backup`, and `offsite-backup` once it is created). `web` calls the API through its public HTTPS address, not through the private one.
 3. **The edge replaces the header; Django fails closed otherwise.** Django compares the whole header value with `https`. `http`, an empty value or a list such as `http, https` make the request insecure, which turns into a redirect or a refused form post, never into a request treated as secure. A forged `X-Forwarded-Proto: https` from the internet is harmless, because the edge only forwards requests that really arrived over HTTPS. The smoke test above checks that the edge does not pass a client's `http` through.
 4. **The hop count matches the proxies that append to `X-Forwarded-For`.** One for Railway's edge. Django reads the entry that many places from the right, so a client-supplied left-hand entry is ignored. Railway's documentation does not say whether the edge strips or appends client-supplied `X-Forwarded-For` values; reading from the right works in both cases. Adding another proxy in front (a Cloudflare-proxied record for the API host) makes it `2`. A wrong count is visible in the throttling check of the smoke tests.
 5. **The health check needs none of this.** It arrives over plain HTTP from `healthcheck.railway.app`, carries no forwarding header, and is exempt from the redirect.
